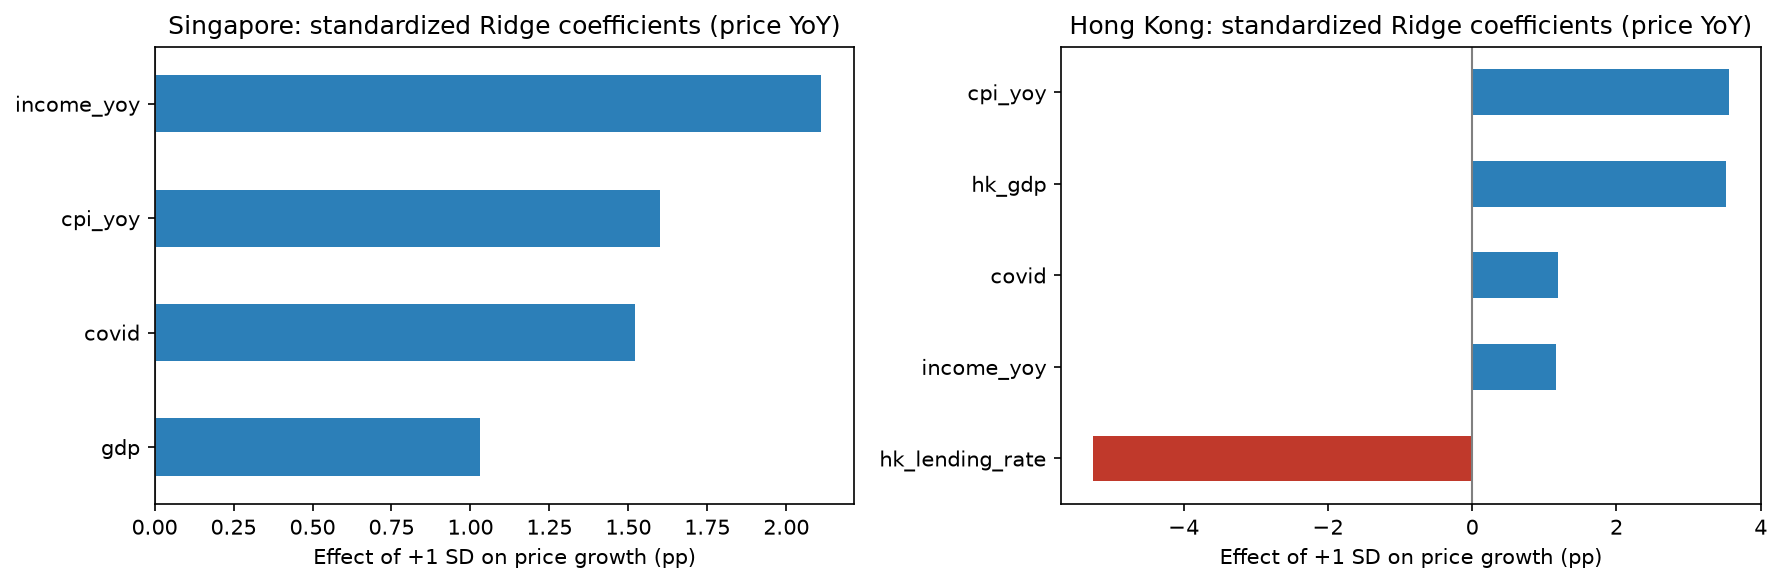
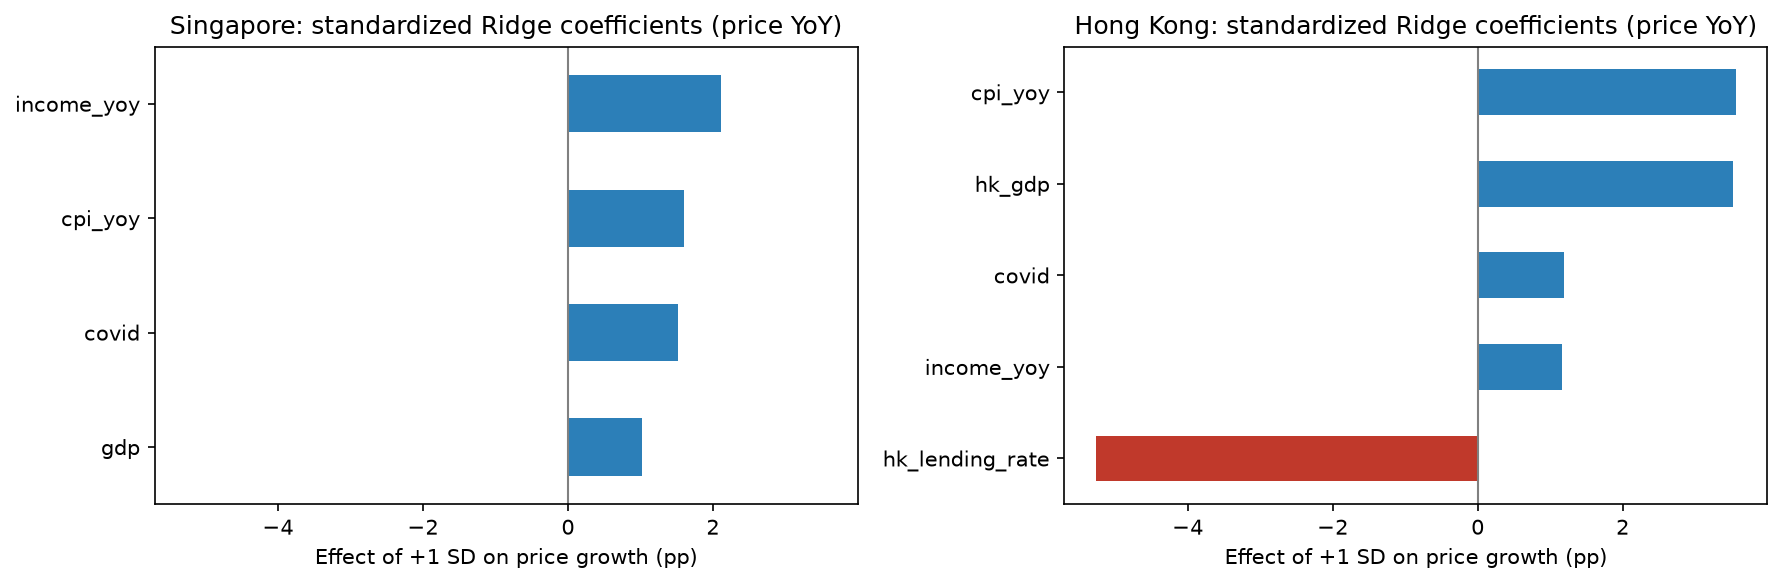
Add reproducible prep.py, final model comparison, affordability summary, requirements

diff --git a/prep.py b/prep.py
@@ -1,0 +1,46 @@
+import os
+import numpy as np
+import pandas as pd
+import matplotlib.pyplot as plt
+
+if not os.path.exists('Data/Clean/singapore_merged.csv'):
+    raise FileNotFoundError(f'Run from the project folder that contains Data/. Current folder: {os.getcwd()}')
+os.makedirs('Figures', exist_ok=True)
+
+# --- Load and trim HK to the Singapore window ---
+sg = pd.read_csv('Data/Clean/singapore_merged.csv')
+hk = pd.read_csv('Data/Clean/hongkong_merged.csv')
+hk = hk[(hk['quarter'] >= '2017Q1') & (hk['quarter'] <= '2025Q4')].copy().reset_index(drop=True)
+sg['quarter_period'] = pd.PeriodIndex(sg['quarter'], freq='Q')
+hk['quarter_period'] = pd.PeriodIndex(hk['quarter'], freq='Q')
+
+# --- Re-index to 2017Q1 = 100, affordability index ---
+def rebase(s):
+    return s / s.iloc[0] * 100
+
+sg['price_idx'], sg['cpi_idx'], sg['income_idx'] = (rebase(sg['resale_price_index']),
+                                                    rebase(sg['cpi']), rebase(sg['income_median']))
+hk['price_idx'], hk['cpi_idx'], hk['income_idx'] = (rebase(hk['hk_price_index']),
+                                                    rebase(hk['hk_cpi']), rebase(hk['hk_income_median']))
+for df in (sg, hk):
+    df['afford_idx'] = df['price_idx'] / df['income_idx'] * 100   # higher = less affordable
+
+# --- YoY growth rates ---
+for df, p, i, c in [(sg, 'resale_price_index', 'income_median', 'cpi'),
+                    (hk, 'hk_price_index', 'hk_income_median', 'hk_cpi')]:
+    df['price_yoy']  = df[p].pct_change(4) * 100
+    df['income_yoy'] = df[i].pct_change(4) * 100
+    df['cpi_yoy']    = df[c].pct_change(4) * 100
+
+# --- COVID dummy (2020Q1-2022Q2) ---
+for df in (sg, hk):
+    df['covid'] = df['quarter_period'].between(pd.Period('2020Q1', 'Q'),
+                                               pd.Period('2022Q2', 'Q')).astype(int)
+
+# --- Feature lists ---
+sg_feats_yoy = ['cpi_yoy', 'gdp', 'income_yoy', 'covid']
+hk_feats_yoy = ['cpi_yoy', 'hk_gdp', 'income_yoy', 'hk_lending_rate', 'covid']
+
+# --- Save model-ready datasets ---
+sg.drop(columns='quarter_period').to_csv('Data/Clean/sg_model_ready.csv', index=False)
+hk.drop(columns='quarter_period').to_csv('Data/Clean/hk_model_ready.csv', index=False)
